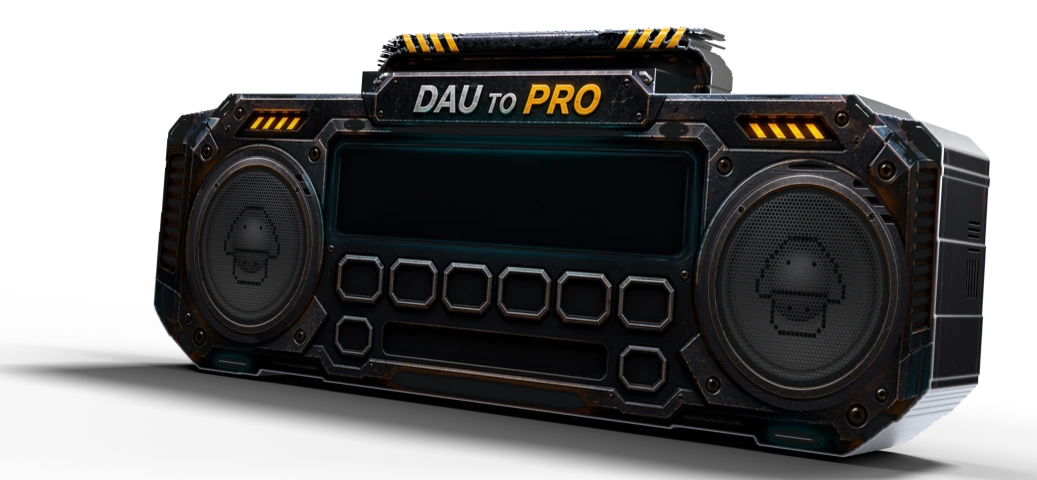
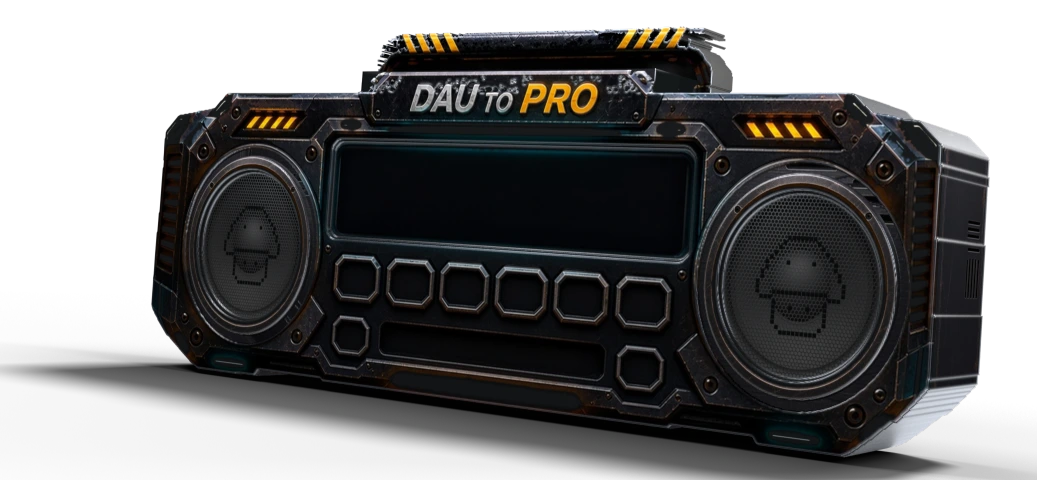
NERD FM: Front mit echtem Relief – Rahmen und Lautsprecherränder stehen vor, Öffnungen liegen zurück
- prepare_pack.py: Höhenkarte aus Paketebenen (Öffnungen, Rahmen, Ränder) plus leichte Wölbung nach Helligkeit
- build_boombox.py: Frontpunkte nach Höhenkarte verschoben, Verschattung durch Umgebungsverdeckung und Lichtrichtung,
  HTML-Frontebene auf Rahmenhöhe

diff --git a/dau-to-pro/nerd-radio/layout.css b/dau-to-pro/nerd-radio/layout.css
@@ -1,5 +1,5 @@
 /* Generiert von tools/nerd-radio/build_boombox.py – nicht von Hand ändern. Positionen in Paket-Koordinaten. */
-.nr-device{aspect-ratio:2074/961;--nr-face:"0.16528 0.06074 0.92805 0.00636 0.90119 0.99308 0.14086 0.76165"}
+.nr-device{aspect-ratio:2074/961;--nr-face:"0.16251 0.05945 0.92646 0.00437 0.89950 0.99408 0.13802 0.76186"}
 .nr-face{width:2910px;height:1242px}
 .nr-display{left:28.763%;top:33.333%;width:45.361%;height:24.155%}
 .nr-volume{left:37.010%;top:79.469%;width:28.969%;height:9.420%}

diff --git a/tools/nerd-radio/build_boombox.py b/tools/nerd-radio/build_boombox.py
@@ -42,6 +42,10 @@ k = CW / 1400                            # Messraster der Vorschau (siehe prepar
 BODY_TOP = 116 * k                       # Oberkante Korpus; darüber Griff und Logo-Schild
 PLATE = (440 * k, 80 * k, 970 * k)       # Logo-Schild: x0, Oberkante, x1
 DEPTH, HANDLE_FRONT, HANDLE_DEPTH = 1.7, 0.55, 0.5
+# Relief der Front: Höhenkarte aus prepare_pack.py (0 = Öffnungen, 1 = Rahmen, 1.6 = Lautsprecherränder)
+RELIEF = 0.05                            # Einheiten je Höhenstufe (Gerät = 10 Einheiten breit)
+HMAP = np.load(os.path.join(WORK, 'height.npy')) if os.path.exists(os.path.join(WORK, 'height.npy')) else None
+FACE_Y = -RELIEF if HMAP is not None else 0.0   # HTML-Frontebene liegt auf Rahmenhöhe
 SURF = PACK.get('surfaces')
 if SURF:
     DEPTH = SURF['depth'] * U             # Tiefe passend zu den Gehäuseflächen (432 px bei 2910 px Breite)
@@ -67,6 +71,23 @@ def shade_factor(nt, lo=0.66, hi=1.08):
     nt.links.new(mz.outputs['Result'], mul.inputs[0]); nt.links.new(mx.outputs['Result'], mul.inputs[1])
     return mul.outputs[0]
 
+def relief_factor(nt):
+    """Verschattung des Reliefs für die ungeschattete Front: Umgebungsverdeckung (Vertiefungen dunkler) und
+    Ausrichtung zum Hauptlicht (Stufen, die vom Licht wegzeigen, dunkler; zum Licht hin heller)."""
+    ao = nt.nodes.new('ShaderNodeAmbientOcclusion'); ao.inputs['Distance'].default_value = 0.12; ao.samples = 8
+    aom = nt.nodes.new('ShaderNodeMapRange'); aom.inputs['To Min'].default_value = 0.45
+    nt.links.new(ao.outputs['AO'], aom.inputs['Value'])
+    geo = nt.nodes.new('ShaderNodeNewGeometry')
+    dot = nt.nodes.new('ShaderNodeVectorMath'); dot.operation = 'DOT_PRODUCT'
+    dot.inputs[1].default_value = Vector((-5, -6, 7)).normalized()
+    nt.links.new(geo.outputs['Normal'], dot.inputs[0])
+    dm = nt.nodes.new('ShaderNodeMapRange'); dm.inputs['From Min'].default_value = -0.4; dm.inputs['From Max'].default_value = 0.9
+    dm.inputs['To Min'].default_value = 0.5; dm.inputs['To Max'].default_value = 1.2
+    nt.links.new(dot.outputs['Value'], dm.inputs['Value'])
+    mul = nt.nodes.new('ShaderNodeMath'); mul.operation = 'MULTIPLY'
+    nt.links.new(aom.outputs['Result'], mul.inputs[0]); nt.links.new(dm.outputs['Result'], mul.inputs[1])
+    return mul.outputs[0]
+
 def edge_light(nt, base):
     """Lichtkante: weich gerundete Kantennormale (Bevel-Node, keine Geometrie) fängt das Studiolicht als Glanz.
     Nur an Kanten aktiv (Abweichung zur echten Flächennormale), die Flächen bleiben wie gemalt."""
@@ -89,7 +110,9 @@ img.colorspace_settings.name = 'sRGB'; img.alpha_mode = 'STRAIGHT'
 front_mat = bpy.data.materials.new('front'); nt = nodes(front_mat)
 tex = nt.nodes.new('ShaderNodeTexImage'); tex.image = img; tex.interpolation = 'Cubic'
 em = nt.nodes.new('ShaderNodeEmission'); nt.links.new(tex.outputs['Color'], em.inputs['Color'])
-nt.links.new(shade_factor(nt), em.inputs['Strength'])
+rf = nt.nodes.new('ShaderNodeMath'); rf.operation = 'MULTIPLY'
+nt.links.new(shade_factor(nt), rf.inputs[0]); nt.links.new(relief_factor(nt), rf.inputs[1])
+nt.links.new(rf.outputs[0], em.inputs['Strength'])
 tr = nt.nodes.new('ShaderNodeBsdfTransparent'); mix = nt.nodes.new('ShaderNodeMixShader')
 # Deckkraft steil: innen voll deckend (sonst scheinen Innenflächen durch halbtransparente Pixel), Silhouette bleibt scharf
 op = nt.nodes.new('ShaderNodeMapRange'); op.inputs['From Min'].default_value = 0.1; op.inputs['From Max'].default_value = 0.5
@@ -156,15 +179,18 @@ upper = np.broadcast_to(ys[:, None] < BODY_TOP, solid.shape)
 plate = upper & (ys[:, None] >= PLATE[1]) & (xs[None, :] >= PLATE[0]) & (xs[None, :] <= PLATE[2])
 parts = {'body': solid & (~upper | plate), 'handle': solid & upper & ~plate}
 
-def slab(name, cells, front, depth, surfaces=False):
-    """Zellen der Silhouette als Fläche bei Y=front anlegen und nach hinten extrudieren."""
+def slab(name, cells, front, depth, surfaces=False, relief=False):
+    """Zellen der Silhouette als Fläche bei Y=front anlegen und nach hinten extrudieren.
+    Mit relief=True wird jeder Frontpunkt nach der Höhenkarte nach vorn (−Y) geschoben."""
     vid = -np.ones((gh + 1, gw + 1), np.int64); verts = []
     rr, cc = np.nonzero(cells)
     for r, c in zip(rr, cc):
         for dr, dc in ((0, 0), (0, 1), (1, 1), (1, 0)):
             if vid[r + dr, c + dc] < 0:
                 vid[r + dr, c + dc] = len(verts)
-                verts.append((X((c + dc) * CELL), front, Z((r + dr) * CELL)))
+                px_, py_ = min(CW - 1, (c + dc) * CELL), min(CH - 1, (r + dr) * CELL)
+                lift = float(HMAP[py_, px_]) * RELIEF if relief and HMAP is not None else 0.0
+                verts.append((X((c + dc) * CELL), front - lift, Z((r + dr) * CELL)))
     faces = [(int(vid[r, c]), int(vid[r + 1, c]), int(vid[r + 1, c + 1]), int(vid[r, c + 1])) for r, c in zip(rr, cc)]
     me = bpy.data.meshes.new(name); me.from_pydata(verts, [], faces); me.update()
     me.materials.append(front_mat); me.materials.append(side_mat)
@@ -189,7 +215,7 @@ def slab(name, cells, front, depth, surfaces=False):
     bm.to_mesh(me); bm.free()
     ob = bpy.data.objects.new(name, me); scene.collection.objects.link(ob)
     return ob
-slab('body', parts['body'], 0.0, DEPTH, surfaces=True)
+slab('body', parts['body'], 0.0, DEPTH, surfaces=True, relief=True)
 slab('handle', parts['handle'], HANDLE_FRONT, HANDLE_DEPTH)
 
 # ---------------------------------------------------------------- Bodenschatten (Shadow Catcher: nur der Schatten wird sichtbar)
@@ -270,7 +296,7 @@ print('WEBP base', os.path.getsize(os.path.join(OUT, 'base.webp')))
 # ---------------------------------------------------------------- layout.css
 def relp(p):
     return ((p[0] - CROP[0]) / (CROP[2] - CROP[0]), (p[1] - CROP[1]) / (CROP[3] - CROP[1]))
-quad = ' '.join(f'{v:.5f}' for c in ((0, 0), (CW, 0), (CW, CH), (0, CH)) for v in relp(proj(*c, 0)))
+quad = ' '.join(f'{v:.5f}' for c in ((0, 0), (CW, 0), (CW, CH), (0, CH)) for v in relp(proj(*c, FACE_Y)))
 cw, ch = (CROP[2] - CROP[0]) * W, (CROP[3] - CROP[1]) * H
 pct = lambda v, t: f'{v / t * 100:.3f}%'
 def place(rect):

diff --git a/tools/nerd-radio/prepare_pack.py b/tools/nerd-radio/prepare_pack.py
@@ -126,6 +126,9 @@ dx, dy, dw, dh = manifest['layout']['display']
 DISP = hole_bbox(dx - 20, dy - 20, dx + dw + 20, dy + dh + 20)
 
 front = shell.copy()
+# Höhenkarte der Front (für das Relief in Blender): 0 = Öffnungen (Display, Lautsprecher, Tastenmulden),
+# 1 = Gehäuserahmen, 1.6 = Lautsprecherränder. Weiche Übergänge = abgeschrägte Stufen.
+HEIGHT = (alpha > 0.5).astype(np.float32)
 
 # Display-Glas in die Aussparung (Inhalt kommt live aus HTML)
 x0, y0, x1, y1 = DISP
@@ -172,11 +175,20 @@ for side in ('left', 'right'):
     over(LAYERS['cyan-halo'], resize(flip(SP['glow']), W, H), ox, oy)
     over(LAYERS['cyan'], resize(flip(SP['led']), W, H), ox, oy)
     layout_spk[side] = [ox, oy, W, H]
+    reg = HEIGHT[oy:oy + H, ox:ox + W]
+    reg[:] = np.maximum(reg, (rim[..., 3] > 0.5) * 1.6)
     iy, ix = np.nonzero(inner > 0.5)
     bx0, by0, bx1, by1 = int(ix.min()), int(iy.min()), int(ix.max() + 1), int(iy.max() + 1)
     cone_img[..., 3] *= inner; grille[..., 3] *= inner
     GRILLES[side] = (cone_img[by0:by1, bx0:bx1], grille[by0:by1, bx0:bx1])
     CONE[side] = (bx0 + ox, by0 + oy, bx1 - bx0, by1 - by0)
+
+# Höhenkarte mit leicht abgeschrägten Stufen speichern (Paket-Koordinaten, float32)
+# Rahmen zusätzlich leicht gewölbt nach Helligkeit (helle Paneele und Grate erhaben, dunkle Fugen vertieft)
+lum_s = ndimage.gaussian_filter((shell[..., :3] @ np.array([0.3, 0.55, 0.15], np.float32)), 5)
+lum_s = (lum_s - np.percentile(lum_s[alpha > 0.5], 5)) / (np.percentile(lum_s[alpha > 0.5], 95) - np.percentile(lum_s[alpha > 0.5], 5) + 1e-6)
+HEIGHT += np.clip(lum_s, 0, 1) * 0.45 * (alpha > 0.5) * (HEIGHT < 1.5)
+np.save(os.path.join(args.work, 'height.npy'), ndimage.gaussian_filter(HEIGHT, 2.0).astype(np.float32))
 
 # Front für Blender (verlustfrei, volle Auflösung)
 Image.fromarray((np.clip(front, 0, 1) * 255 + 0.5).astype(np.uint8), 'RGBA').save(os.path.join(args.work, 'front.png'))
